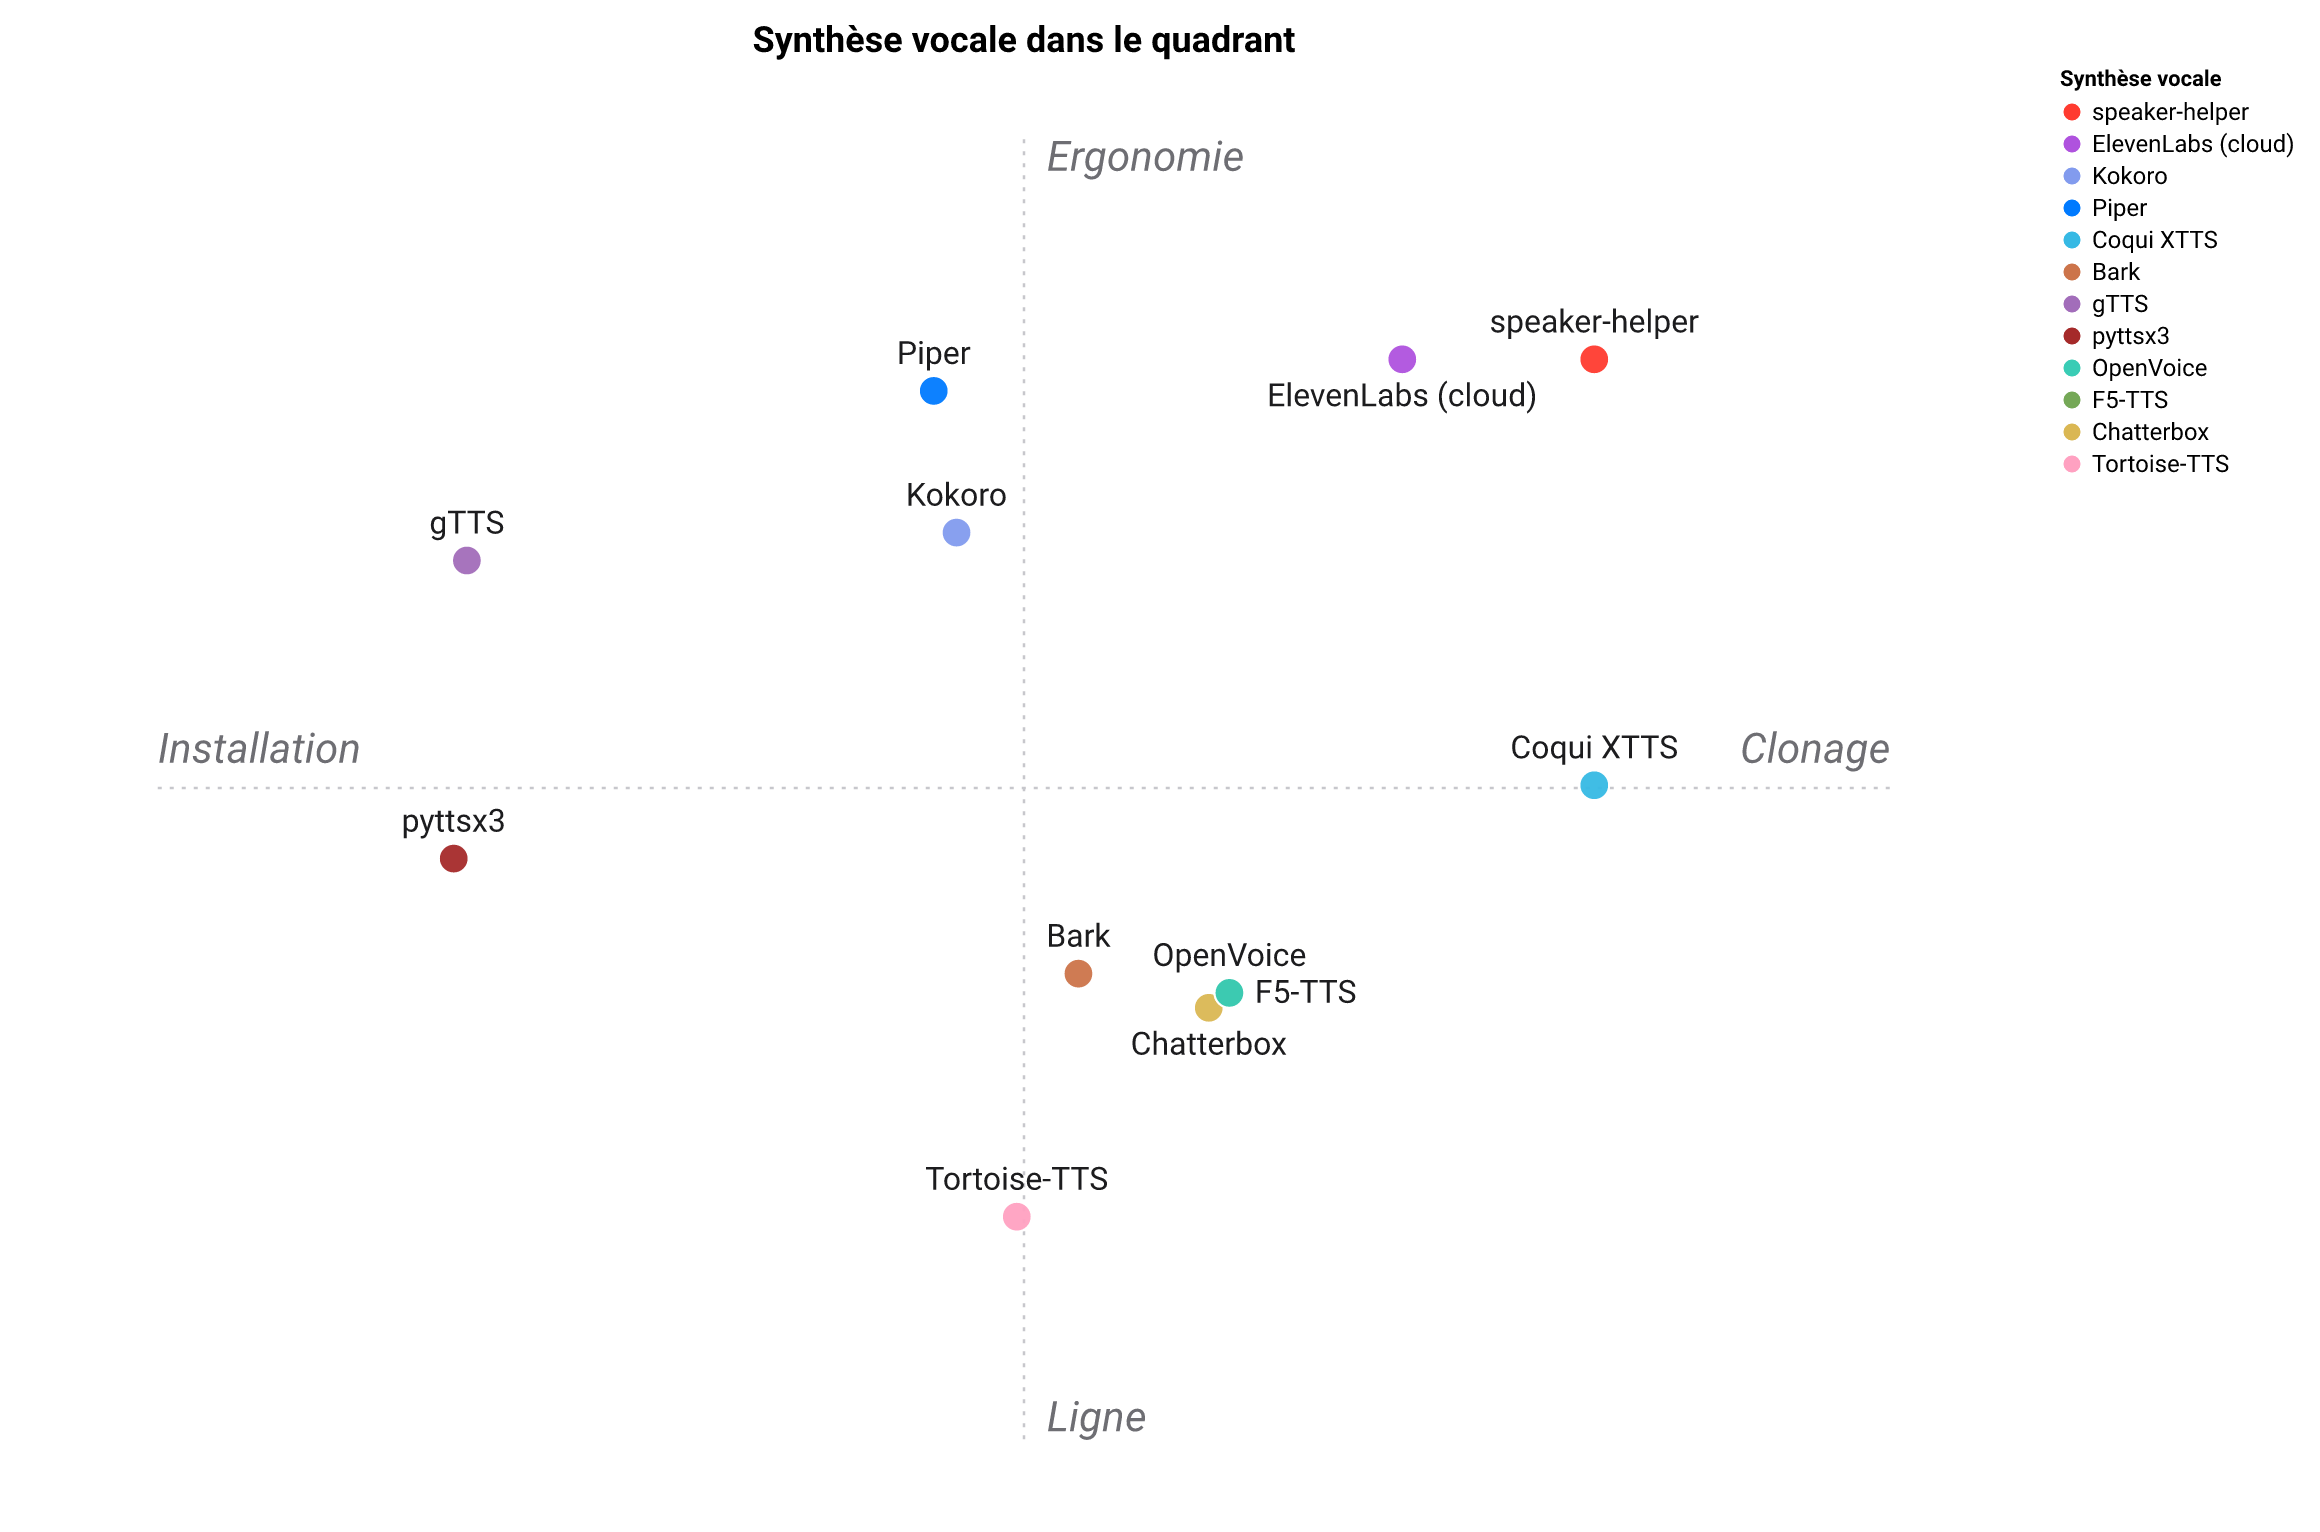
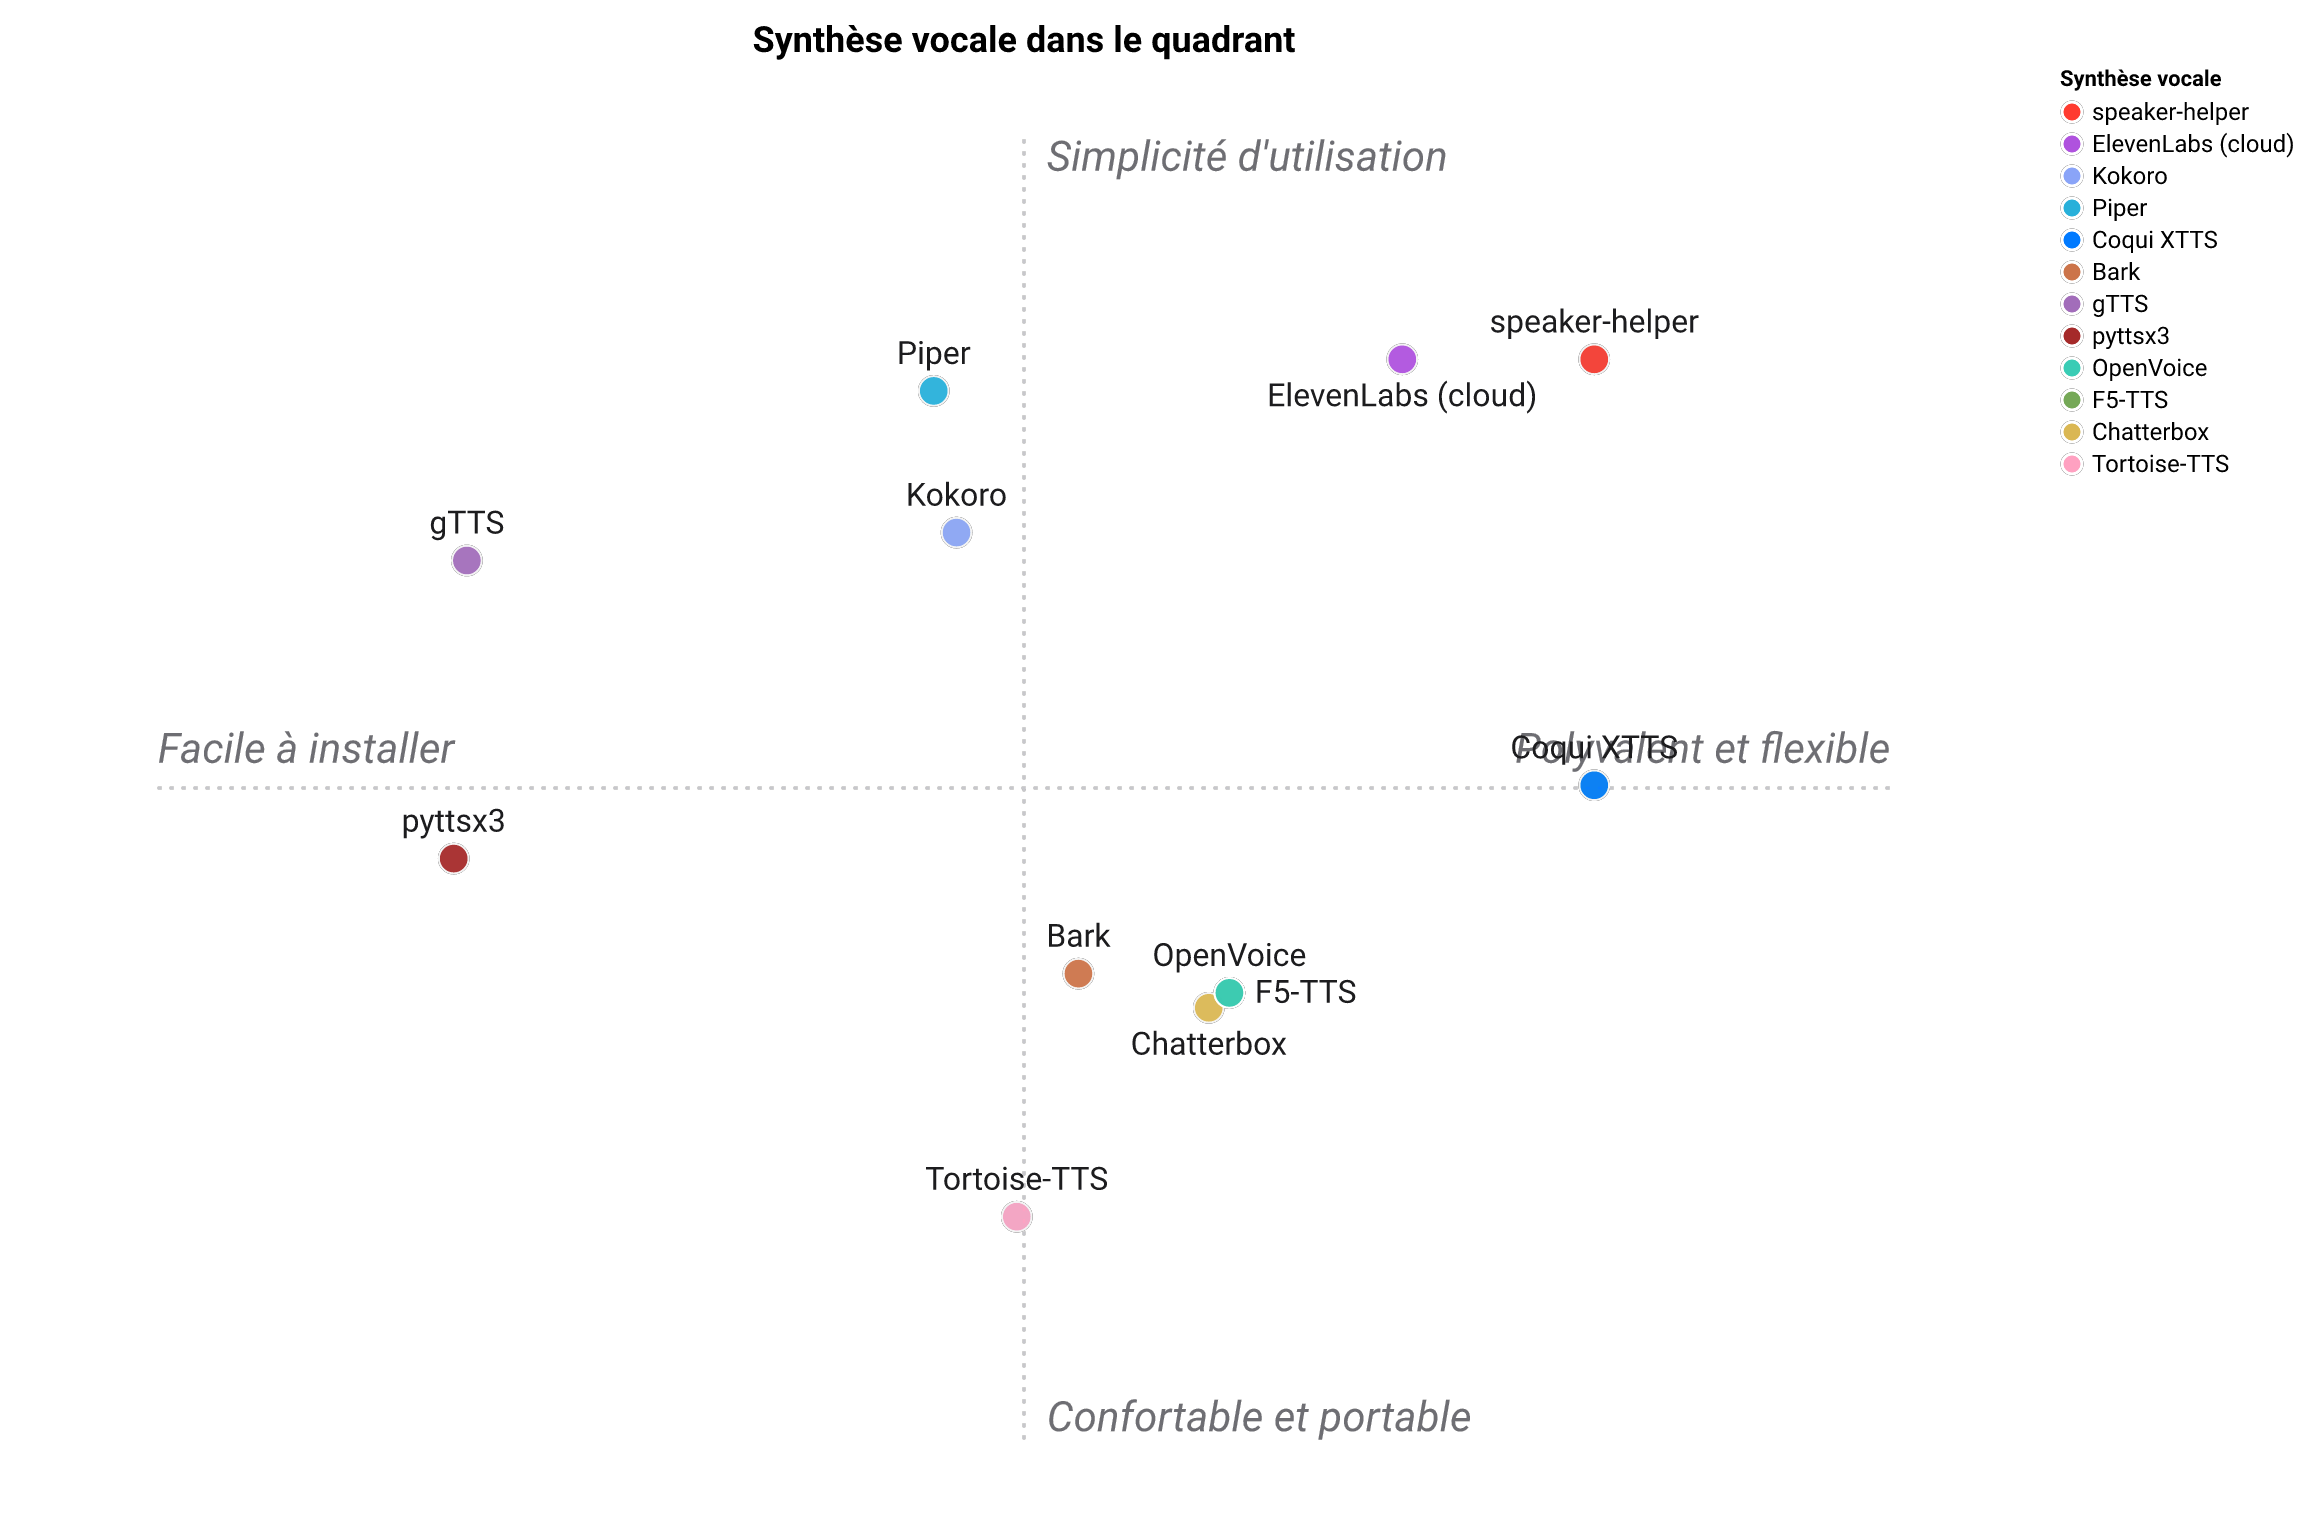
Landscape: CSV as source of truth; regenerate table/figure/commentary
- assets/landscape.csv & assets/paysage.csv are now the committed source of
  truth (integer ratings + domain label in the first cell). The star table, the
  positioning figure and the commentary in LANDSCAPE.md / PAYSAGE.md are
  regenerated from them by scripts/gen_landscape.py (standingpoint, LLM axis
  names), inside managed <!-- TABLE --> / <!-- FIGURE --> marker regions.
- Axis names use the LLM plain-word poles.

diff --git a/PAYSAGE.md b/PAYSAGE.md
@@ -15,6 +15,7 @@ pénalisé dans l'absolu — la note reflète seulement l'adéquation à *ce* cr
 
 ## En un coup d'œil
 
+<!-- TABLE:START -->
 | Synthèse vocale | Hors-ligne / local | Streaming | Clonage de voix | Multilingue | Ergonomie pipeline IA | Multi-surface | Installation légère |
 | --- | :---: | :---: | :---: | :---: | :---: | :---: | :---: |
 | **speaker-helper** | ⭐⭐⭐⭐⭐ | ⭐⭐⭐⭐⭐ | ⭐⭐⭐⭐⭐ | ⭐⭐⭐⭐⭐ | ⭐⭐⭐⭐⭐ | ⭐⭐⭐⭐⭐ | ⭐⭐⭐ |
@@ -29,14 +30,17 @@ pénalisé dans l'absolu — la note reflète seulement l'adéquation à *ce* cr
 | pyttsx3 | ⭐⭐⭐⭐⭐ | ⭐ | ⭐ | ⭐⭐ | ⭐⭐ | ⭐ | ⭐⭐⭐⭐⭐ |
 | gTTS | ⭐ | ⭐ | ⭐ | ⭐⭐⭐⭐ | ⭐⭐ | ⭐ | ⭐⭐⭐⭐⭐ |
 | ElevenLabs (cloud) | ⭐ | ⭐⭐⭐⭐⭐ | ⭐⭐⭐⭐⭐ | ⭐⭐⭐⭐⭐ | ⭐⭐⭐ | ⭐⭐ | ⭐⭐⭐ |
+<!-- TABLE:END -->
 
 ## Carte de positionnement
 
+<!-- FIGURE:START -->
 Représentation 2D du tableau ci-dessus.
 
 ![Carte de positionnement](https://raw.githubusercontent.com/warith-harchaoui/speaker-helper/main/assets/paysage.png)
 
-La carte est un résumé en 2D des 7 critères : à lire comme une forme, pas comme un classement. « speaker-helper » se situe dans le coin en haut à droite. Les axes se lisent **Horizontal — Installation ↔ Clonage** et **Vertical — Ligne ↔ Ergonomie**.
+La carte est un résumé en 2D des 7 critères : à lire comme une forme, pas comme un classement. « speaker-helper » se situe dans le coin en haut à droite. Les axes se lisent **Horizontal — Facile à installer ↔ Polyvalent et flexible** et **Vertical — Confortable et portable ↔ Simplicité d'utilisation**.
+<!-- FIGURE:END -->
 
 ## Positionnement
 

diff --git a/LANDSCAPE.md b/LANDSCAPE.md
@@ -14,6 +14,7 @@ not penalised in the abstract — the score just reflects fit to *this* niche.
 
 ## At a glance
 
+<!-- TABLE:START -->
 | Speech Synthesis | Offline / local | Streaming | Voice cloning | Multilingual | AI-pipeline ergonomics | Multi-surface | Light install |
 | --- | :---: | :---: | :---: | :---: | :---: | :---: | :---: |
 | **speaker-helper** | ⭐⭐⭐⭐⭐ | ⭐⭐⭐⭐⭐ | ⭐⭐⭐⭐⭐ | ⭐⭐⭐⭐⭐ | ⭐⭐⭐⭐⭐ | ⭐⭐⭐⭐⭐ | ⭐⭐⭐ |
@@ -28,14 +29,17 @@ not penalised in the abstract — the score just reflects fit to *this* niche.
 | pyttsx3 | ⭐⭐⭐⭐⭐ | ⭐ | ⭐ | ⭐⭐ | ⭐⭐ | ⭐ | ⭐⭐⭐⭐⭐ |
 | gTTS | ⭐ | ⭐ | ⭐ | ⭐⭐⭐⭐ | ⭐⭐ | ⭐ | ⭐⭐⭐⭐⭐ |
 | ElevenLabs (cloud) | ⭐ | ⭐⭐⭐⭐⭐ | ⭐⭐⭐⭐⭐ | ⭐⭐⭐⭐⭐ | ⭐⭐⭐ | ⭐⭐ | ⭐⭐⭐ |
+<!-- TABLE:END -->
 
 ## Positioning map
 
+<!-- FIGURE:START -->
 2D representation of the table above.
 
 ![Positioning map](https://raw.githubusercontent.com/warith-harchaoui/speaker-helper/main/assets/landscape.png)
 
-The map is a 2-D summary of the seven criteria, so read it as a shape, not a scoreboard. `speaker-helper` is at the top-right corner. The axes read **Horizontal — Install ↔ Cloning** and **Vertical — Offline ↔ Ergonomics**.
+The map is a 2-D summary of the seven criteria, so read it as a shape, not a scoreboard. `speaker-helper` is at the top-right corner. The axes read **Horizontal — Simplicity ↔ Versatility** and **Vertical — Stability ↔ Efficiency**.
+<!-- FIGURE:END -->
 
 ## Positioning
 
